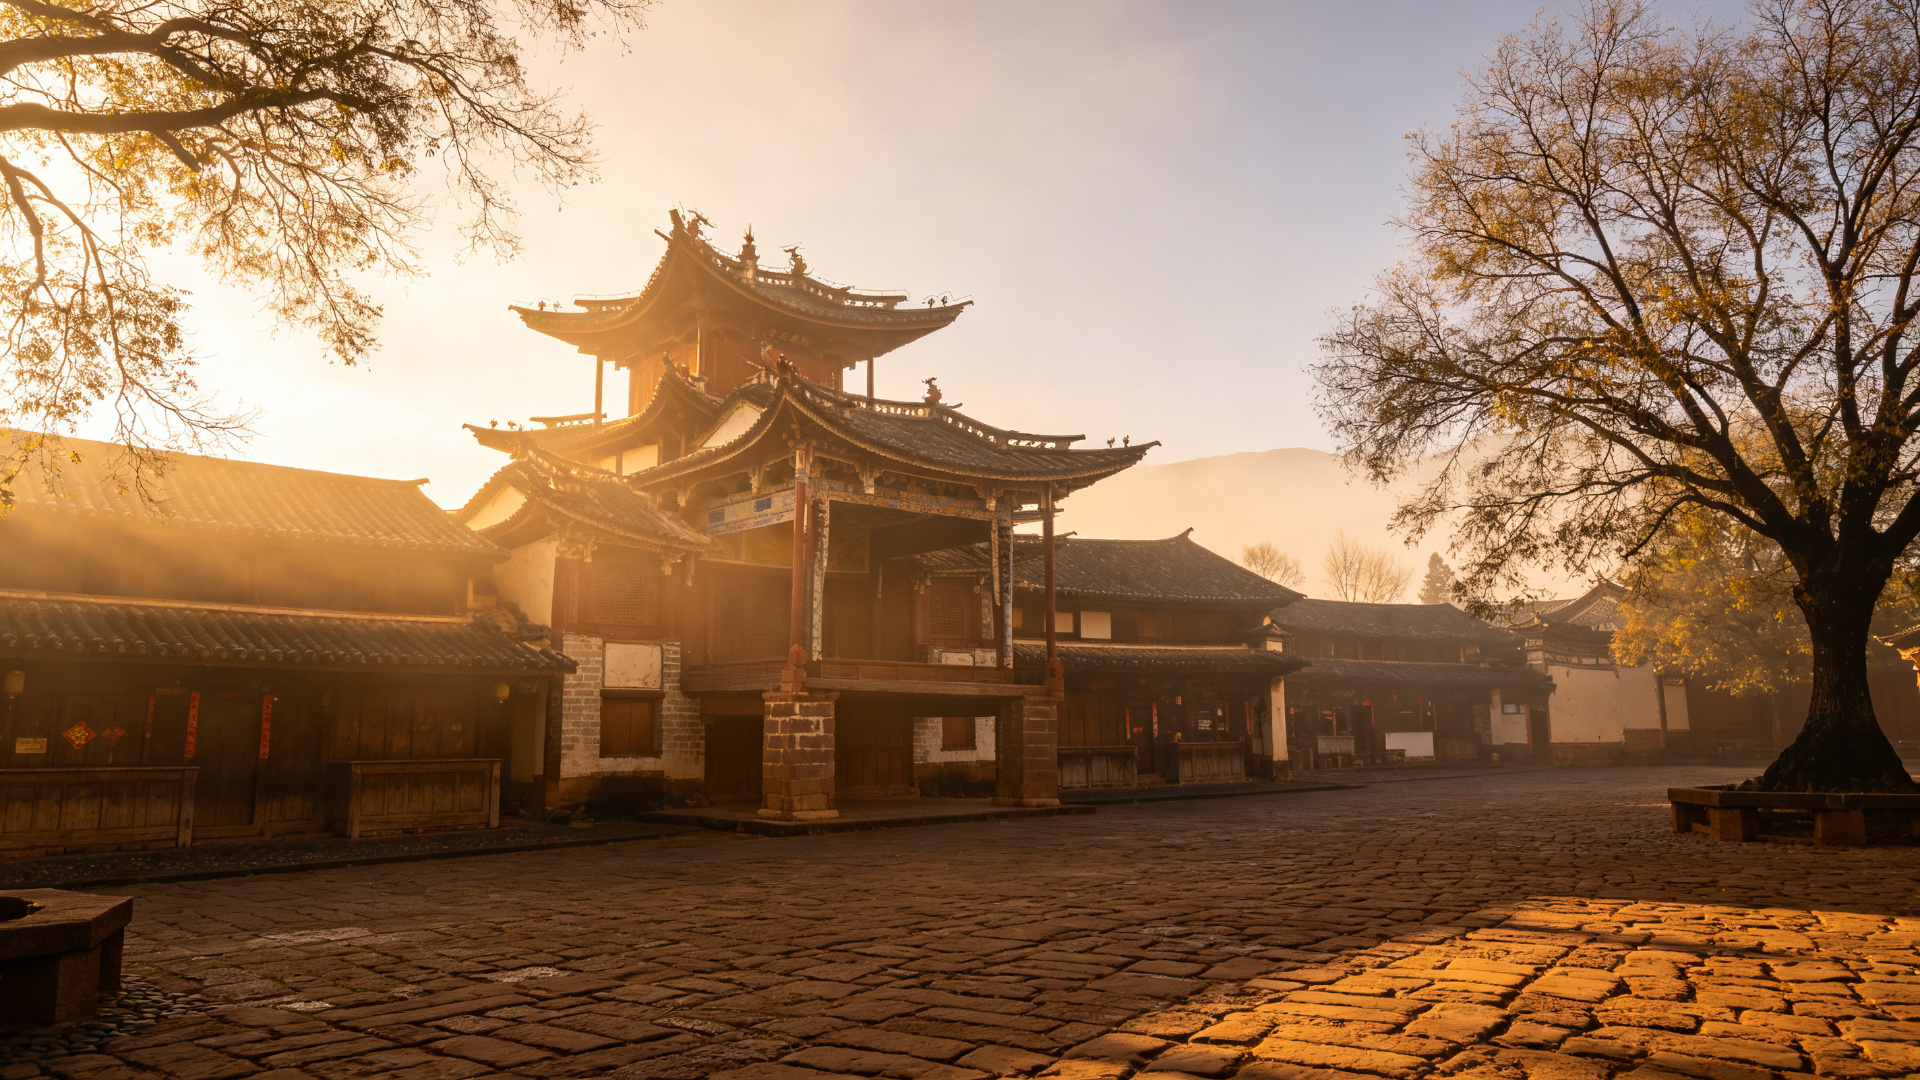
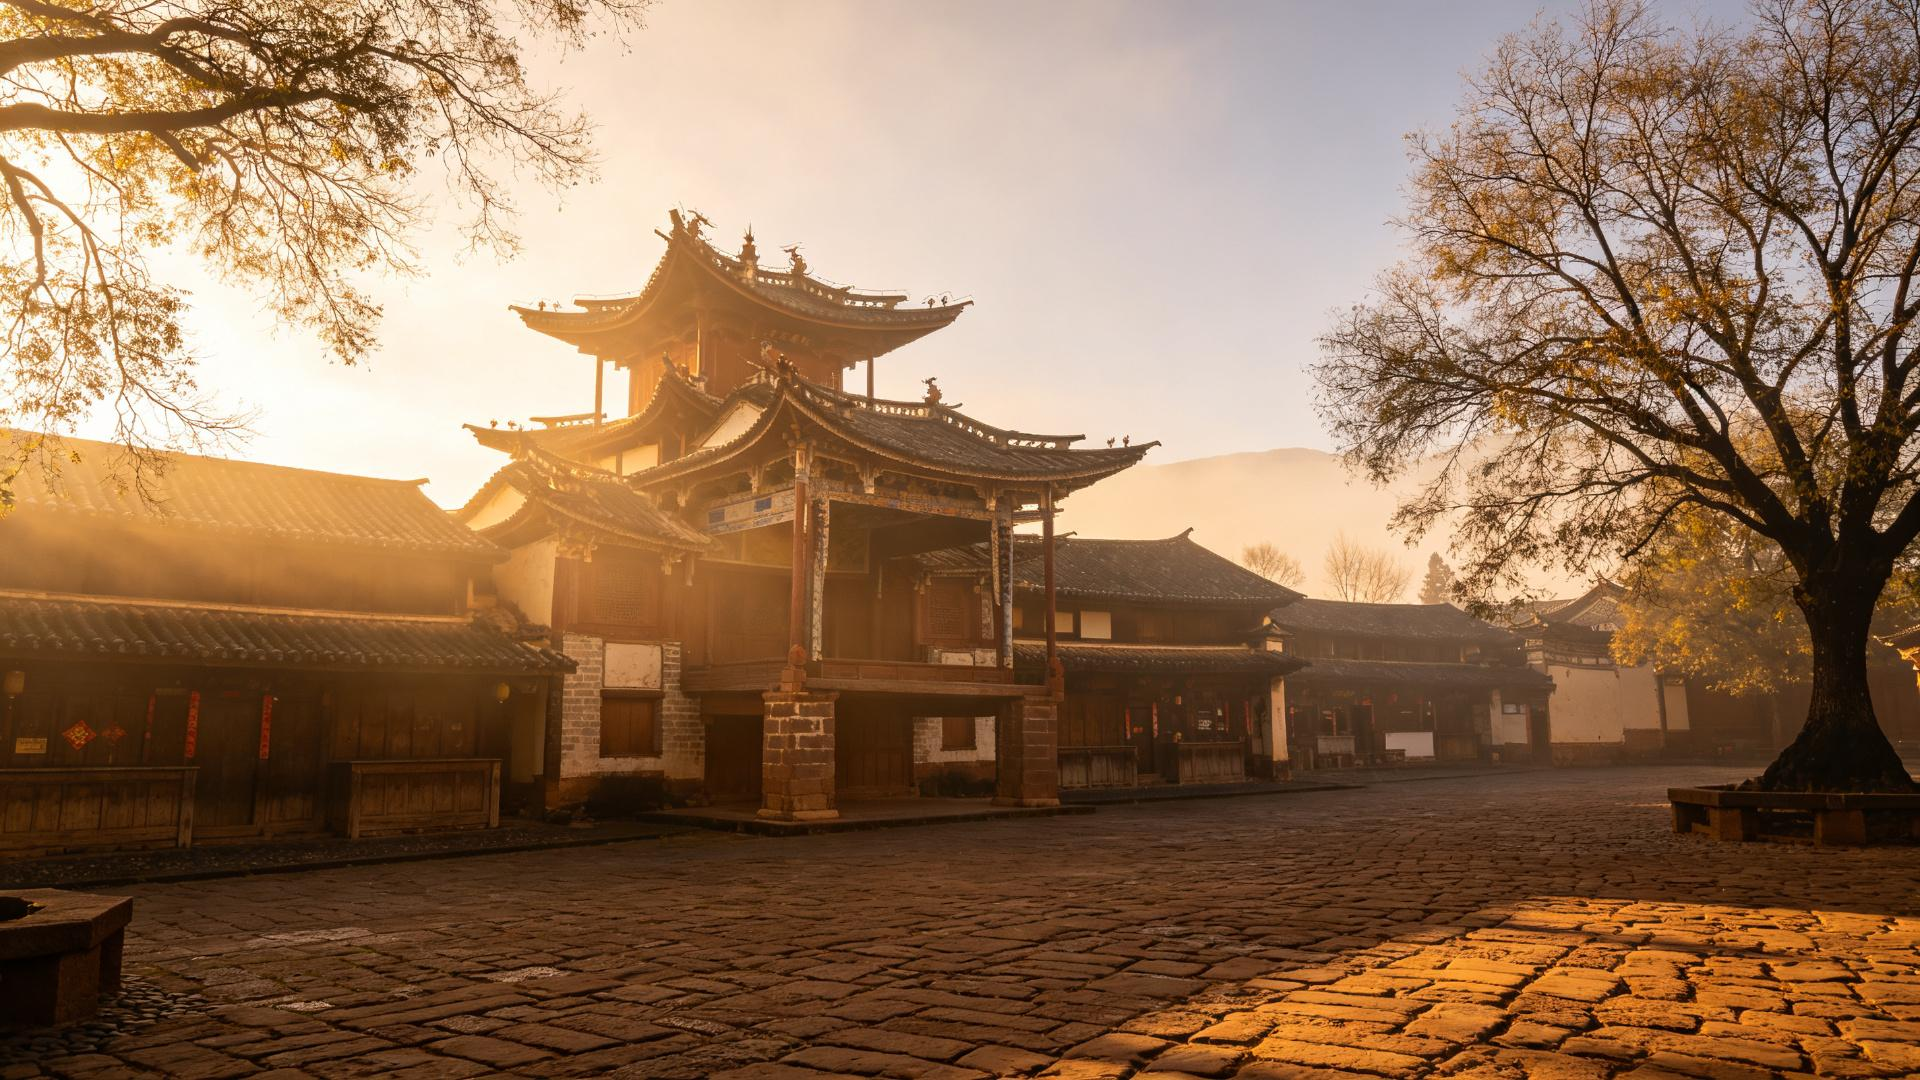
fix: hero图压缩到300KB内+动画延迟缩短（用户不再看到空白）

diff --git a/assets/css/style.css b/assets/css/style.css
@@ -723,17 +723,17 @@ button{font-family:inherit;cursor:pointer;}
   opacity: 0;
   animation: heroLineIn 1.1s cubic-bezier(.2,.8,.2,1) forwards;
 }
-.hero-title .hl:nth-child(1) { animation-delay: .3s; }
-.hero-title .hl:nth-child(2) { animation-delay: 1.1s; }
+.hero-title .hl:nth-child(1) { animation-delay: .4s; }
+.hero-title .hl:nth-child(2) { animation-delay: .9s; }
 
 /* kicker / 副标题 / 按钮延迟淡入 */
 @keyframes fadeUp {
   from { opacity: 0; transform: translateY(16px); }
   to   { opacity: 1; transform: translateY(0); }
 }
-.hero-kicker  { opacity: 0; animation: fadeUp .8s ease-out .1s  forwards; }
-.hero-sub     { opacity: 0; animation: fadeUp .9s ease-out 1.8s forwards; }
-.hero-actions { opacity: 0; animation: fadeUp 1s  ease-out 2.4s forwards; }
+.hero-kicker  { opacity: 0; animation: fadeUp .6s ease-out .2s  forwards; }
+.hero-sub     { opacity: 0; animation: fadeUp .8s ease-out 1.2s forwards; }
+.hero-actions { opacity: 0; animation: fadeUp .8s ease-out 1.6s forwards; }
 
 /* 深青绿遮罩增强电影感 */
 .hero-scrim {
@@ -760,7 +760,7 @@ button{font-family:inherit;cursor:pointer;}
   letter-spacing: .2em;
   text-transform: uppercase;
   opacity: 0;
-  animation: fadeUp 1s ease-out 3.2s forwards;
+  animation: fadeUp .8s ease-out 2s forwards;
   pointer-events: none;
 }
 .scroll-hint .mouse {
